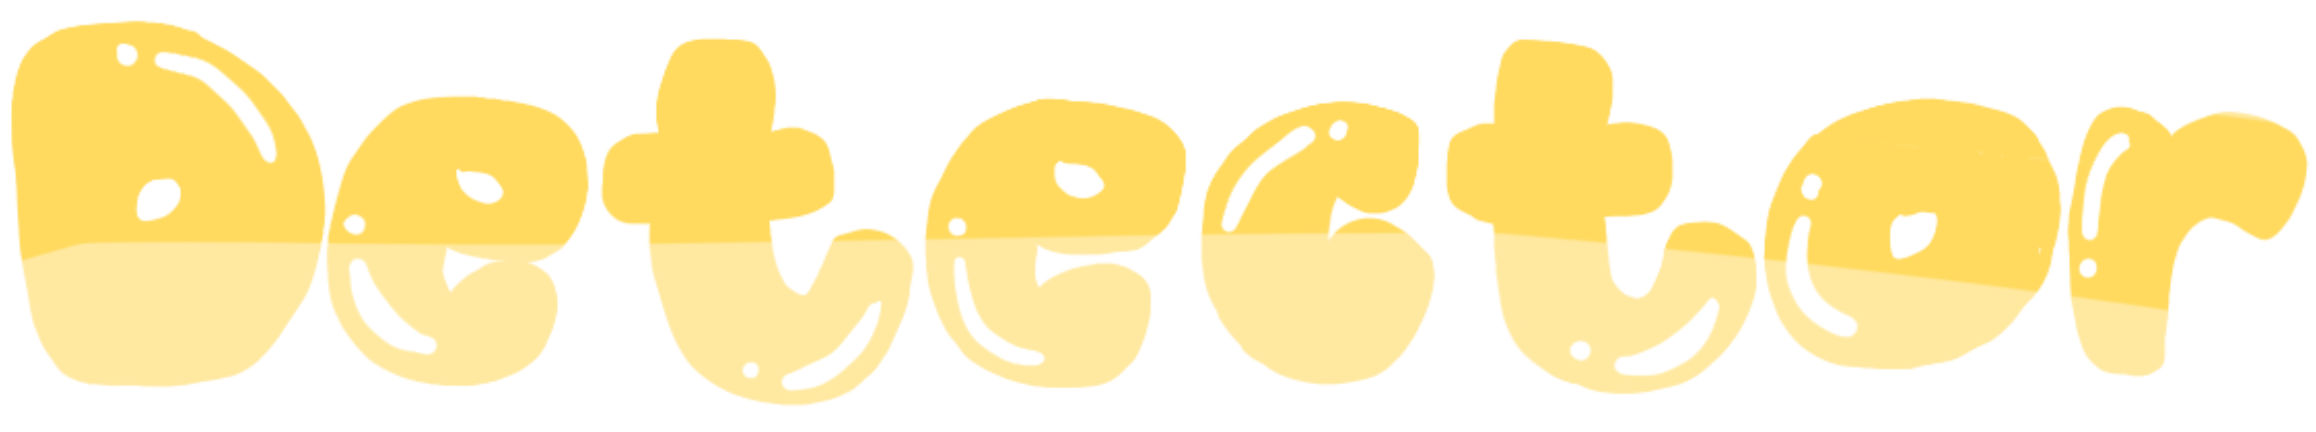
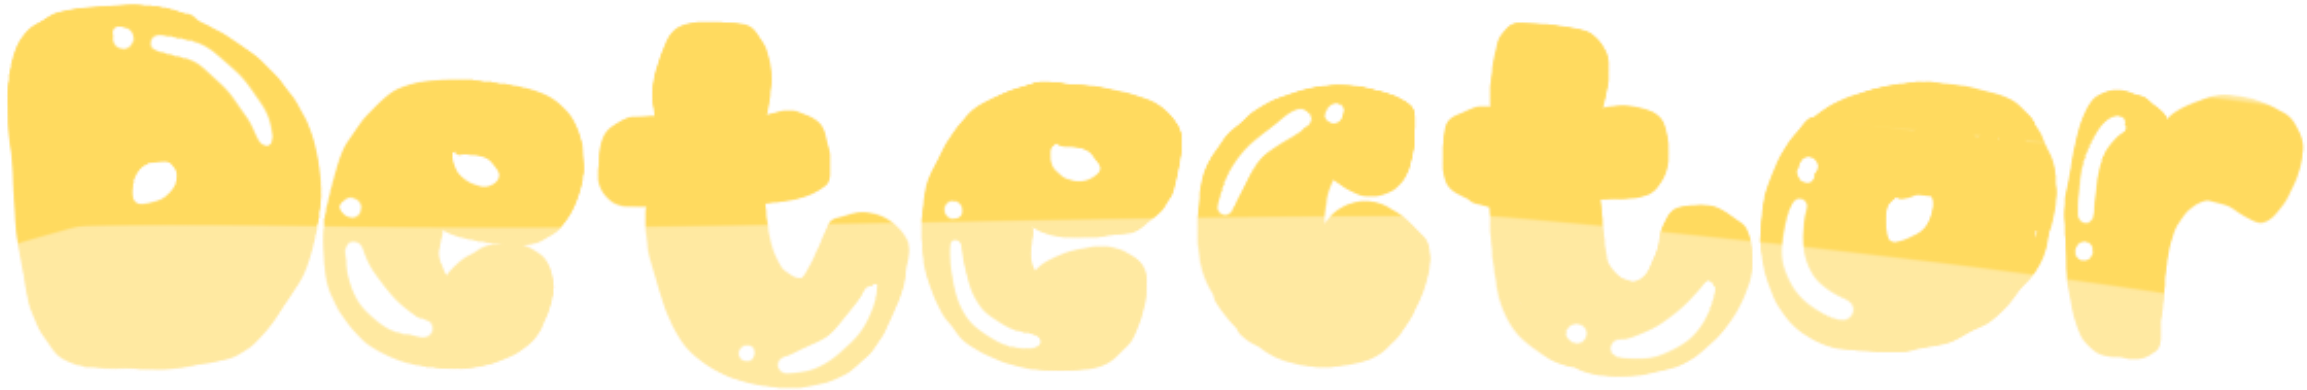
UI Enchancements

diff --git a/src/pages/Settings.jsx b/src/pages/Settings.jsx
@@ -3,6 +3,7 @@ import Card from '@/components/ui/Card'
 import Button from '@/components/ui/Button'
 import { useLocalStorage } from '@/hooks/useLocalStorage'
 import { DEFAULT_SETTINGS } from '@/data/constants'
+import settingsImage from '../../images/settings.png'
 
 export default function Settings() {
   const [settings, setSettings] = useLocalStorage('posturepal_settings', DEFAULT_SETTINGS)
@@ -21,50 +22,57 @@ export default function Settings() {
   }
 
   return (
-    <div className="flex flex-col gap-6 max-w-lg">
-      <h1 className="text-2xl font-bold text-gray-900">Settings</h1>
+    <div className="flex flex-col gap-6 items-center w-full min-h-[calc(100vh-6rem)] pt-8 sm:pt-12 px-4">
+      {/* Header with settings image */}
+      <img
+        src={settingsImage}
+        alt="Settings"
+        className="h-16 sm:h-20 w-auto object-contain mb-4"
+      />
 
-      <Card title="Alert Thresholds">
-        <label className="block mb-4">
-          <span className="text-sm text-gray-600">
-            Warn when score drops below: <strong>{settings.warnThreshold}</strong>
-          </span>
-          <input
-            type="range"
-            min={10} max={90} step={5}
-            value={settings.warnThreshold}
-            onChange={e => handleChange('warnThreshold', Number(e.target.value))}
-            className="w-full mt-1 accent-brand-500"
-          />
-        </label>
+      <div className="w-full max-w-lg">
+        <Card title="Alert Thresholds">
+          <label className="block mb-4">
+            <span className="text-sm text-gray-600">
+              Warn when score drops below: <strong>{settings.warnThreshold}</strong>
+            </span>
+            <input
+              type="range"
+              min={10} max={90} step={5}
+              value={settings.warnThreshold}
+              onChange={e => handleChange('warnThreshold', Number(e.target.value))}
+              className="w-full mt-1 accent-brand-500"
+            />
+          </label>
 
-        <label className="flex items-center gap-3 text-sm text-gray-600">
-          <input
-            type="checkbox"
-            checked={settings.soundAlerts}
-            onChange={e => handleChange('soundAlerts', e.target.checked)}
-            className="accent-brand-500 w-4 h-4"
-          />
-          Enable sound alerts
-        </label>
-      </Card>
+          <label className="flex items-center gap-3 text-sm text-gray-600">
+            <input
+              type="checkbox"
+              checked={settings.soundAlerts}
+              onChange={e => handleChange('soundAlerts', e.target.checked)}
+              className="accent-brand-500 w-4 h-4"
+            />
+            Enable sound alerts
+          </label>
+        </Card>
 
-      <Card title="Session">
-        <label className="block text-sm text-gray-600">
-          Reminder interval (minutes): <strong>{settings.reminderInterval}</strong>
-          <input
-            type="range"
-            min={5} max={60} step={5}
-            value={settings.reminderInterval}
-            onChange={e => handleChange('reminderInterval', Number(e.target.value))}
-            className="w-full mt-1 accent-brand-500"
-          />
-        </label>
-      </Card>
+        <Card title="Session">
+          <label className="block text-sm text-gray-600">
+            Reminder interval (minutes): <strong>{settings.reminderInterval}</strong>
+            <input
+              type="range"
+              min={5} max={60} step={5}
+              value={settings.reminderInterval}
+              onChange={e => handleChange('reminderInterval', Number(e.target.value))}
+              className="w-full mt-1 accent-brand-500"
+            />
+          </label>
+        </Card>
 
-      <Button onClick={handleSave}>
-        {saved ? 'Saved!' : 'Save Settings'}
-      </Button>
+        <Button onClick={handleSave}>
+          {saved ? 'Saved!' : 'Save Settings'}
+        </Button>
+      </div>
     </div>
   )
 }

diff --git a/src/pages/Dashboard.jsx b/src/pages/Dashboard.jsx
@@ -7,6 +7,7 @@ import { usePosture } from '@/hooks/usePosture'
 import { formatDuration } from '@/utils/formatters'
 import { useEffect } from 'react'
 import { useLocation } from 'react-router-dom'
+import detectorImage from '../../images/detector.png'
 
 export default function Dashboard() {
   const {
@@ -26,19 +27,36 @@ export default function Dashboard() {
   const location = useLocation()
 
   useEffect(() => {
-    if (location.hash === '#detector') {
+    // Scroll to detector on mount or hash change
+    const scrollToDetector = () => {
       const el = document.getElementById('detector')
-      if (el) el.scrollIntoView({ behavior: 'smooth' })
-      else window.scrollTo({ top: 0, behavior: 'smooth' })
+      const navbar = document.querySelector('.app-navbar')
+      const navHeight = navbar ? navbar.offsetHeight : 96
+      
+      if (el) {
+        // Scroll so element appears below navbar with padding
+        const targetScroll = el.offsetTop - navHeight - 30
+        window.scrollTo({ top: Math.max(0, targetScroll), behavior: 'smooth' })
+      } else {
+        // If element not found yet, scroll to top
+        window.scrollTo({ top: 0, behavior: 'smooth' })
+      }
     }
-  }, [location.hash])
+    
+    // Always scroll on mount (in case coming from home page)
+    setTimeout(scrollToDetector, 200)
+  }, [])
 
   return (
-    <div id="detector" className="flex flex-col gap-6">
-      {/* Header */}
-      <div className="flex items-center justify-between">
-        <h1 className="text-2xl font-bold text-gray-900">Detector</h1>
-        <div className="flex items-center gap-2">
+    <div id="detector" className="flex flex-col gap-6 items-center w-full min-h-[calc(100vh-6rem)] pt-8 sm:pt-12 px-4">
+      {/* Header with detector image */}
+      <div className="flex flex-col items-center gap-4 w-full max-w-4xl">
+        <img
+          src={detectorImage}
+          alt="Detector"
+          className="h-16 sm:h-20 w-auto object-contain"
+        />
+        <div className="flex items-center gap-2 justify-center flex-wrap">
           {!landmarks && (
             <span className="text-xs text-amber-500">Waiting for pose detection…</span>
           )}
@@ -58,7 +76,7 @@ export default function Dashboard() {
 
       {/* Calibration prompt */}
       {!isCalibrated && (
-        <div className="flex items-start gap-3 bg-amber-50 border border-amber-200 rounded-xl p-4">
+        <div className="flex items-start gap-3 bg-amber-50 border border-amber-200 rounded-xl p-4 w-full max-w-2xl mx-auto">
           <span className="text-amber-500 text-xl mt-0.5">💡</span>
           <div>
             <p className="text-amber-900 font-semibold text-sm">Calibrate first</p>
@@ -73,7 +91,7 @@ export default function Dashboard() {
       {alert && <AlertBanner message={alert} onDismiss={dismissAlert} />}
 
       {/* Main grid: camera left, stats right */}
-      <div className="grid grid-cols-1 lg:grid-cols-3 gap-4">
+      <div className="grid grid-cols-1 lg:grid-cols-3 gap-4 w-full max-w-4xl mx-auto">
         {/* Camera feed with landmark overlay */}
         <div className="lg:col-span-2">
           <CameraView onPoseResults={handlePoseResults} />
@@ -110,7 +128,7 @@ export default function Dashboard() {
       </div>
 
       {/* Landmark legend */}
-      <Card title="Landmark Guide">
+      <Card title="Landmark Guide" className="w-full max-w-4xl mx-auto">
         <div className="flex flex-wrap gap-4 text-sm text-gray-600">
           <LegendItem color="#f59e0b" label="Nose" />
           <LegendItem color="#fcd34d" label="Ears" />

diff --git a/src/pages/Login.jsx b/src/pages/Login.jsx
@@ -3,6 +3,8 @@ import { useNavigate, Navigate } from 'react-router-dom'
 import { useAuth } from '@/context/AuthContext'
 import Card from '@/components/ui/Card'
 import Button from '@/components/ui/Button'
+import background from '../../images/background.PNG'
+import logo from '../../images/logo.PNG'
 
 export default function Login() {
   const { login, register, currentUser } = useAuth()
@@ -46,13 +48,22 @@ export default function Login() {
   }
 
   return (
-    <div className="min-h-screen bg-amber-50 flex flex-col items-center justify-center px-4">
-      <div className="mb-8 text-center">
-        <h1 className="text-3xl font-bold text-amber-700">PosturePal</h1>
-        <p className="text-amber-600 text-sm mt-1">Sit better. Feel better.</p>
+    <div className="min-h-screen flex flex-col items-center justify-center px-4 relative">
+      <div
+        className="absolute inset-0 bg-cover bg-center"
+        style={{ backgroundImage: `url(${background})` }}
+      />
+      <div className="absolute inset-0 bg-white/10" />
+
+      <div className="mb-8 text-center relative z-10">
+        <img
+          src={logo}
+          alt="PosturePal"
+          className="h-20 sm:h-24 w-auto mx-auto object-contain mb-2"
+        />
       </div>
 
-      <Card className="w-full max-w-sm">
+      <Card className="w-full max-w-sm relative z-10">
         <h2 className="text-lg font-semibold text-gray-900 mb-5">
           {isRegister ? 'Create your account' : 'Welcome back'}
         </h2>

diff --git a/src/pages/History.jsx b/src/pages/History.jsx
@@ -5,6 +5,7 @@ import { getSessions, clearSessions } from '@/services/storageService'
 import { useAuth } from '@/context/AuthContext'
 import { getScoreVariant, getScoreLabel, rollingAverage } from '@/utils/scoring'
 import { formatTimestamp, formatDuration } from '@/utils/formatters'
+import historyImage from '../../images/history.png'
 
 function sessionDurationSecs(s) {
   return Math.round((s.endedAt - s.startedAt) / 1000)
@@ -50,9 +51,14 @@ export default function History() {
   const isEmpty = !loading && sessions.length === 0
 
   return (
-    <div className="flex flex-col gap-6">
-      <div className="flex items-center justify-between">
-        <h1 className="text-2xl font-bold text-gray-900">History & Stats</h1>
+    <div className="flex flex-col gap-6 items-center w-full min-h-[calc(100vh-6rem)] pt-8 sm:pt-12 px-4">
+      {/* Header with history image */}
+      <div className="flex items-center justify-between w-full max-w-4xl mb-4">
+        <img
+          src={historyImage}
+          alt="History & Stats"
+          className="h-16 sm:h-20 w-auto object-contain"
+        />
         {!isEmpty && !loading && (
           <button
             onClick={handleClear}
@@ -70,7 +76,7 @@ export default function History() {
       ) : isEmpty ? (
         <EmptyState />
       ) : (
-        <>
+        <div className="w-full max-w-4xl">
           <div className="grid grid-cols-2 sm:grid-cols-4 gap-4">
             <StatCard label="Sessions" value={stats.count} />
             <StatCard label="Avg Score" value={`${stats.avgScore}`} unit="/100" accent={getScoreVariant(stats.avgScore)} />
@@ -122,7 +128,7 @@ export default function History() {
               })}
             </div>
           </Card>
-        </>
+        </div>
       )}
     </div>
   )

diff --git a/src/pages/Leaderboard.jsx b/src/pages/Leaderboard.jsx
@@ -7,6 +7,7 @@ import Card from '@/components/ui/Card'
 import Badge from '@/components/ui/Badge'
 import Button from '@/components/ui/Button'
 import { getScoreVariant, getScoreLabel } from '@/utils/scoring'
+import leaderboardImage from '../../images/leaderboard.png'
 
 const medals = ['🥇', '🥈', '🥉']
 
@@ -141,14 +142,19 @@ export default function Leaderboard() {
   }, [globalUsers, search, currentUser])
 
   return (
-    <div className="flex flex-col gap-6">
-      <div>
-        <h1 className="text-2xl font-bold text-gray-900">Leaderboard</h1>
-        <p className="text-sm text-gray-500 mt-1">Average posture score across all sessions</p>
+    <div className="flex flex-col gap-6 items-center w-full min-h-[calc(100vh-6rem)] pt-8 sm:pt-12 px-4">
+      {/* Header with leaderboard image */}
+      <div className="flex flex-col items-center gap-2 w-full max-w-4xl mb-4">
+        <img
+          src={leaderboardImage}
+          alt="Leaderboard"
+          className="h-16 sm:h-20 w-auto object-contain"
+        />
+        <p className="text-sm text-amber-700 text-center">Average posture score across all sessions</p>
       </div>
 
       {/* Tabs */}
-      <div className="flex gap-1 bg-gray-100 p-1 rounded-xl w-fit">
+      <div className="flex gap-1 bg-gray-100 p-1 rounded-xl w-fit max-w-4xl">
         {['friends', 'global'].map((t) => (
           <button
             key={t}

diff --git a/src/components/layout/Navbar.jsx b/src/components/layout/Navbar.jsx
@@ -27,11 +27,11 @@ export default function Navbar() {
   return (
     <nav className="app-navbar fixed top-0 left-0 w-full z-50 shadow-sm">
       <div className="container mx-auto px-4 max-w-6xl flex items-center justify-between h-20 sm:h-24">
-        <div className="flex items-center gap-3">
+        <div className="flex items-center gap-8 sm:gap-12">
           <img
             src={pal}
             alt="PosturePal"
-            className="h-14 sm:h-16 w-auto max-w-[180px] object-contain rounded-lg shrink-0"
+            className="h-14 sm:h-16 w-auto max-w-[180px] object-contain rounded-lg shrink-0 mr-4 sm:mr-6"
           />
           <span className="sr-only">PosturePal</span>
         </div>
@@ -56,7 +56,7 @@ export default function Navbar() {
                     src={icon}
                     alt=""
                     aria-hidden="true"
-                    className="object-contain drop-shadow-sm h-12 sm:h-14 w-[140px] sm:w-[160px]"
+                    className="object-contain drop-shadow-sm h-12 sm:h-14 w-[130px] sm:w-[150px]"
                   />
                 ) : label === 'History' ? (
                   <svg viewBox="0 0 24 24" className="h-12 w-12 sm:h-14 sm:w-14" aria-hidden="true" fill="none" stroke="currentColor" strokeWidth="1.8">
@@ -83,13 +83,13 @@ export default function Navbar() {
         </ul>
 
         {currentUser && (
-          <div className="flex items-center gap-3 ml-12 sm:ml-16">
+          <div className="flex items-center gap-6 sm:gap-8 ml-12 sm:ml-16">
             <span className="text-sm text-gray-500 hidden sm:block">
               {currentUser.displayName ?? currentUser.email}
             </span>
             <button
               onClick={handleLogout}
-              className="text-xs text-gray-400 hover:text-gray-700 transition-colors"
+              className="text-xs text-gray-400 hover:text-gray-700 transition-colors whitespace-nowrap"
             >
               Sign out
             </button>

diff --git a/src/components/ui/Card.jsx b/src/components/ui/Card.jsx
@@ -2,7 +2,7 @@ export default function Card({ title, children, className = '' }) {
   return (
     <div className={`card ${className}`}>
       {title && (
-        <h2 className="text-base font-semibold text-gray-800 mb-4">{title}</h2>
+        <h2 className="text-base font-semibold text-amber-800 mb-4 font-playfair">{title}</h2>
       )}
       {children}
     </div>

diff --git a/tailwind.config.js b/tailwind.config.js
@@ -20,6 +20,7 @@ export default {
       },
       fontFamily: {
         sans: ['Inter', 'system-ui', 'sans-serif'],
+        playfair: ['Playfair Display', 'serif'],
       },
     },
   },